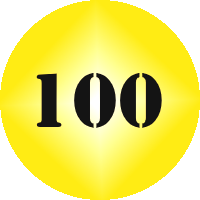
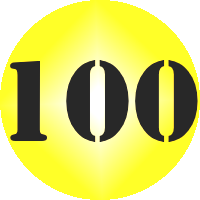
graphical update

Changed region(s): [[0.03, 0.3, 0.99, 0.72]]

diff --git a/params.py b/params.py
@@ -22,5 +22,5 @@ IMAGE_LAUNCHBUTTON = "images/launchbutton.png"
 
 IMAGES_BUTTONS_NORMAL = ["images/{}.png".format(i) for i in range(16)]
 IMAGES_BUTTONS_CLICKED = ["images/{}down.png".format(i) for i in range(16)]
-IMAGES_MISES_NORMAL = ["images/jeton1.png" for i in range(4)]
-IMAGES_MISES_CLICKED = ["images/jeton2.png" for i in range(4)]
+IMAGES_MISES_NORMAL = ["images/jeton{}.png".format(i) for i in [10, 20, 50, 100]]
+IMAGES_MISES_CLICKED = ["images/jeton{}light.png".format(i) for i in [10, 20, 50, 100]]

diff --git a/view/interface.py b/view/interface.py
@@ -73,7 +73,7 @@ class WindowManager:
         self.window.blit(self.fond_sidemenu, (WINDOW_HEIGHT, 0))
 
         # draw section titles
-        font = pygame.font.SysFont("Stilton", 42)
+        font = pygame.font.SysFont("Uroob", 42)
         textyellow = (242, 255, 0)
 
         gainsLabel = font.render("Balance : ${}".format(model.balance), 1, textyellow)
